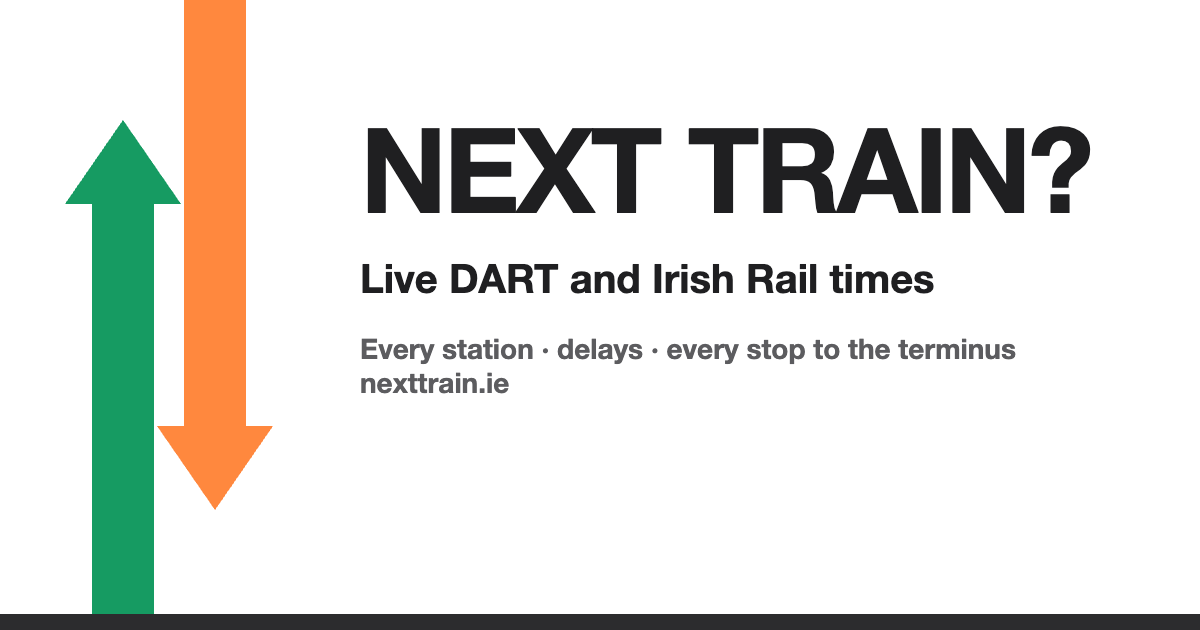
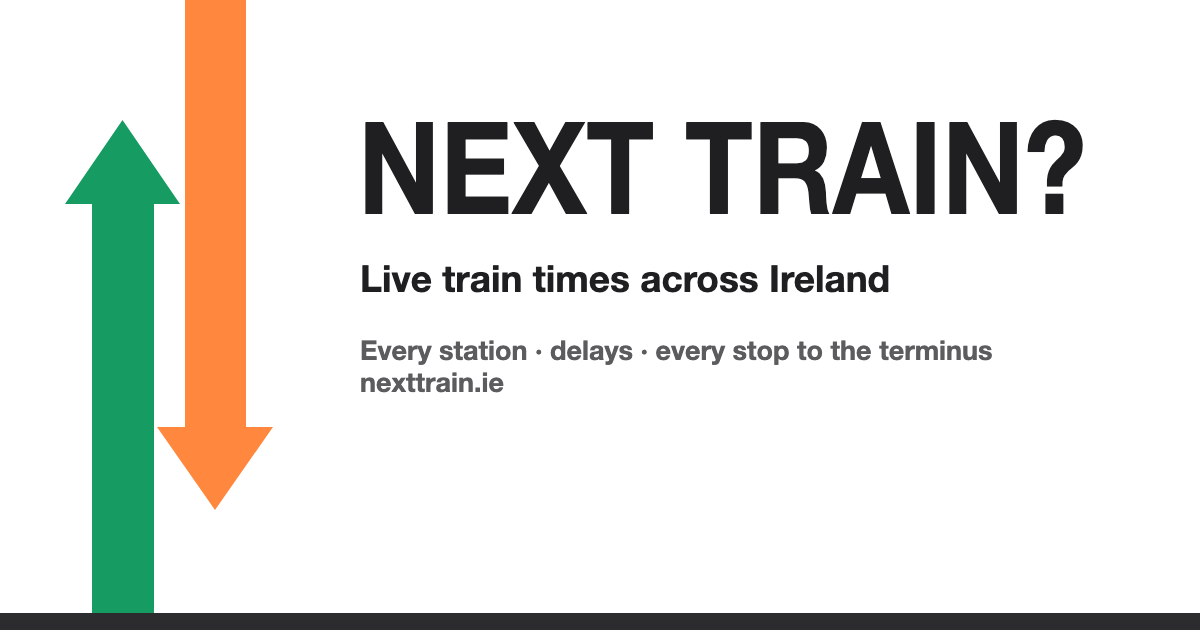
SEO: title and preview image say "Live train times across Ireland"
"Live DART and Irish Rail times" undersold the site, which covers every
line in Ireland. Same change to the page title, og:title and the text in
og-image.png.

Changed region(s): [[0.3083, 0.181, 0.925, 0.3619], [0.3083, 0.4222, 0.8017, 0.4825], [0.3083, 0.5429, 0.8633, 0.6333]]

diff --git a/packages/web/index.html b/packages/web/index.html
@@ -11,7 +11,7 @@
     <link rel="icon" href="/favicon.ico" sizes="48x48" />
     <link rel="icon" href="/icon.svg" type="image/svg+xml" />
     <link rel="apple-touch-icon" href="/apple-touch-icon-180x180.png" />
-    <title>Next Train? · Live DART and Irish Rail times</title>
+    <title>Next Train? · Live train times across Ireland</title>
     <meta
       name="description"
       content="Live train times for every Irish Rail station: DART, Dublin and Cork Commuter, InterCity and Enterprise. See the next trains, delays and every stop to the terminus. Free, no ads, in English and Irish."
@@ -22,7 +22,7 @@
     <!-- Link previews (WhatsApp, iMessage, Slack, social) -->
     <meta property="og:type" content="website" />
     <meta property="og:site_name" content="Next Train?" />
-    <meta property="og:title" content="Next Train? · Live DART and Irish Rail times" />
+    <meta property="og:title" content="Next Train? · Live train times across Ireland" />
     <meta property="og:description" content="Live times for every Irish Rail station: DART, Commuter, InterCity and Enterprise, with delays and every stop to the terminus." />
     <meta property="og:url" content="https://nexttrain.ie/" />
     <meta property="og:image" content="https://nexttrain.ie/og-image.png" />
